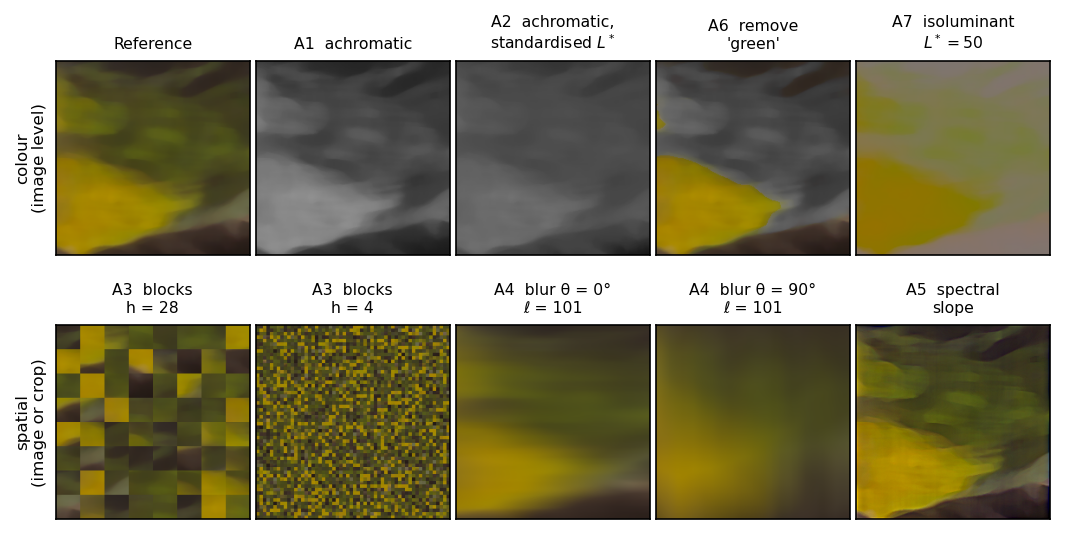
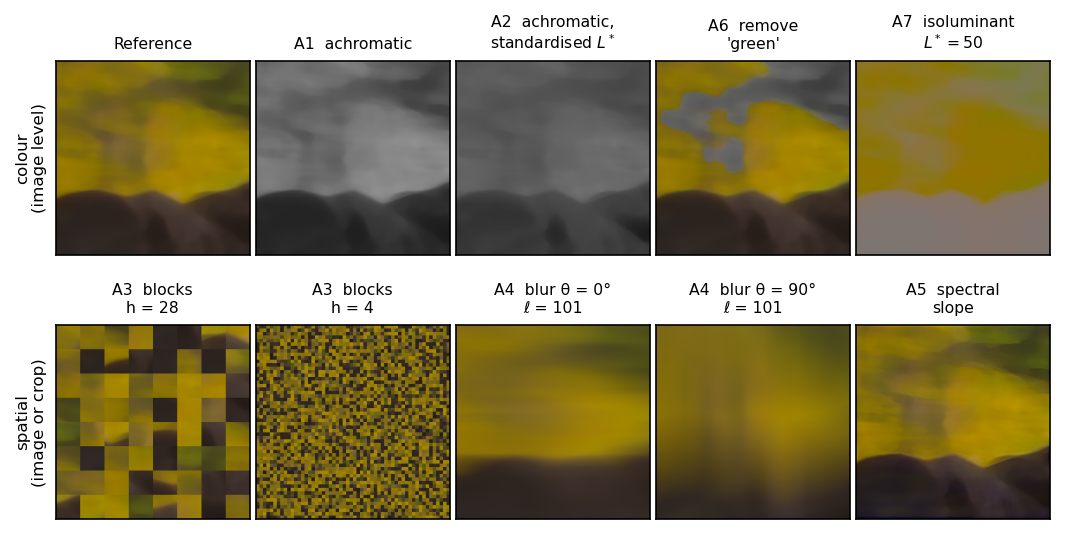
new sampling method

diff --git a/docs/methods_training.tex b/docs/methods_training.tex
@@ -46,13 +46,15 @@ with bicubic interpolation, and $8$ crops of side $P = 224$ px. The two sizes
 give the model the same plumage at two apparent scales. Crops are taken only
 where they lie entirely on the bird: for each specimen and crop size we
 enumerate, at a 1-px step, every top-left corner whose $P \times P$ window is
-fully inside the mask. So that every bag covers the whole body, admissible
-corners are sorted along the body axis ($x$) and cut into $8$ consecutive
-strips, each holding the same number of corners, and one corner is drawn
-uniformly within each strip. The strips have equal admissible area rather than
-equal length, so the broad back is not under-sampled relative to the narrow
-head and tail, and each of the $8$ crops of a size comes from a different
-eighth of the body. Crops are local by construction: none shows the outline of
+fully inside the mask. So that every bag covers the whole body, the range of
+admissible corners along the body axis ($x$) is cut into $8$ strips of equal
+length, and one corner is drawn uniformly within each strip. Each of the $8$
+crops of a size thus comes from a different eighth of the body. Because the
+strips have equal length rather than equal area, the narrow head and tail
+regions, which offer few admissible positions, receive one crop each like the
+broad back, instead of being sampled in proportion to their small area. A strip
+with no admissible corner (a gap in the admissible range) is replaced by a draw
+uniform over all admissible corners. Crops are local by construction: none shows the outline of
 the bird, so body shape is not available to the model.
 % src/sampling.py; candidate tables .cand_{128,224}.zst
 
@@ -271,8 +273,8 @@ whether the chromatic signal is usable on its own and not only necessary.
   (orange) and the 8 windows of 224~px (blue) drawn for one bag.
   (b)~Sampling for $P = 128$ (top) and $P = 224$ (bottom): coloured pixels are
   the centres of all admissible windows (window entirely on the bird), split
-  into 8 strips along the body that hold equal numbers of admissible positions
-  (alternating shades, dotted boundaries); one window is drawn uniformly in
+  into 8 strips of equal length along the body (alternating shades, dotted
+  boundaries); one window is drawn uniformly in
   each strip (dots; the dashed square is one of these windows). Windows are drawn at
   true scale.
   (c)~The 16 crops given to the backbone in the reference condition, all at

diff --git a/src/sampling.py b/src/sampling.py
@@ -34,8 +34,8 @@ def _parse_candidates(payload: np.ndarray) -> dict:
 
 
 # ── Sampling ─────────────────────────────────────────────────────────────────
-# One top-left corner per strip along the body: admissible corners sorted by x and cut into
-# n_positions strips holding equal shares of them, so every bag covers head to tail
+# One top-left corner per strip along the body: the x range of admissible corners is cut into
+# n_positions strips of equal length, so every bag covers head to tail and narrow parts weigh as much as wide ones
 def sample_positions(candidates: dict, n_positions: int, rng: np.random.Generator) -> List[Tuple[int, int]]:
     if candidates.get("edge_case"):
         return [(0, 0)] * n_positions
@@ -44,11 +44,11 @@ def sample_positions(candidates: dict, n_positions: int, rng: np.random.Generato
 
     valid_ys = candidates["valid_ys"]
     valid_xs = candidates["valid_xs"]
-    strips = np.array_split(candidates["x_order"], n_positions)
+    strips = equal_length_strips(candidates, n_positions)
 
     positions: List[Tuple[int, int]] = []
     for strip in strips:
-        # Fewer admissible corners than strips: empty strips are filled below
+        # Empty strip (gap in the admissible x range, or tiny specimen): filled below
         if len(strip) == 0:
             continue
         chosen = strip[rng.integers(len(strip))]
@@ -59,3 +59,12 @@ def sample_positions(candidates: dict, n_positions: int, rng: np.random.Generato
         positions.append((int(valid_ys[idx]), int(valid_xs[idx])))
 
     return positions
+
+
+# Indices of admissible corners in each of n equal-length x intervals, head to tail
+def equal_length_strips(candidates: dict, n: int) -> List[np.ndarray]:
+    order = candidates["x_order"]
+    xs_sorted = candidates["valid_xs"][order]
+    edges = np.linspace(xs_sorted[0], xs_sorted[-1] + 1, n + 1)
+    cuts = np.searchsorted(xs_sorted, edges[1:-1], side="left")
+    return np.split(order, cuts)

diff --git a/scripts/fig_methods.py b/scripts/fig_methods.py
@@ -107,7 +107,7 @@ def draw_admissible(ax, dirs: dict, stem: str, mask: np.ndarray, meta: dict, siz
     half = size // 2
     cand = sampling.load_candidates(dirs["src"], stem, size)
     ys, xs = cand["valid_ys"] + half, cand["valid_xs"] + half
-    strips = np.array_split(cand["x_order"], chain.N_CROPS_PER_SIZE)
+    strips = sampling.equal_length_strips(cand, chain.N_CROPS_PER_SIZE)
     tint = np.array(matplotlib.colors.to_rgb(COLOURS[size])) * 255
     shown = np.where(mask[..., None], 235, 255).astype(np.uint8).repeat(3, axis=-1)
     for i, strip in enumerate(strips):
@@ -115,7 +115,8 @@ def draw_admissible(ax, dirs: dict, stem: str, mask: np.ndarray, meta: dict, siz
         shown[ys[strip], xs[strip]] = (mix * tint + (1 - mix) * 255).astype(np.uint8)
     ax.imshow(shown[y_lo:y_hi], interpolation="nearest")
     for strip in strips[1:]:
-        ax.axvline(xs[strip[0]], color="0.35", lw=0.6, ls=":")
+        if len(strip):
+            ax.axvline(xs[strip[0]], color="0.35", lw=0.6, ls=":")
     drawn = [(y, x) for s, y, x in meta["positions"] if s == size]
     for y, x in drawn:
         ax.plot(x + half, y + half - y_lo, "o", ms=3.2, color=COLOURS[size], mec="white", mew=0.5)
@@ -192,7 +193,7 @@ def fig_crop_system(dirs: dict, stem: str, canvas: np.ndarray, out: Path, seed: 
         ax = fig.add_subplot(gs[r, :])
         draw_admissible(ax, dirs, stem, mask, meta, size, y_lo, y_hi)
         tag = "(b) " if size == 128 else ""
-        ax.set_title(f"{tag}P = {size}: admissible window centres in 8 strips of equal area, one window per strip (dots; one dashed)",
+        ax.set_title(f"{tag}P = {size}: admissible window centres in 8 strips of equal length, one window per strip (dots; one dashed)",
                      fontsize=8, loc="left")
 
     # (c) the 16 crops given to the backbone, reference condition
